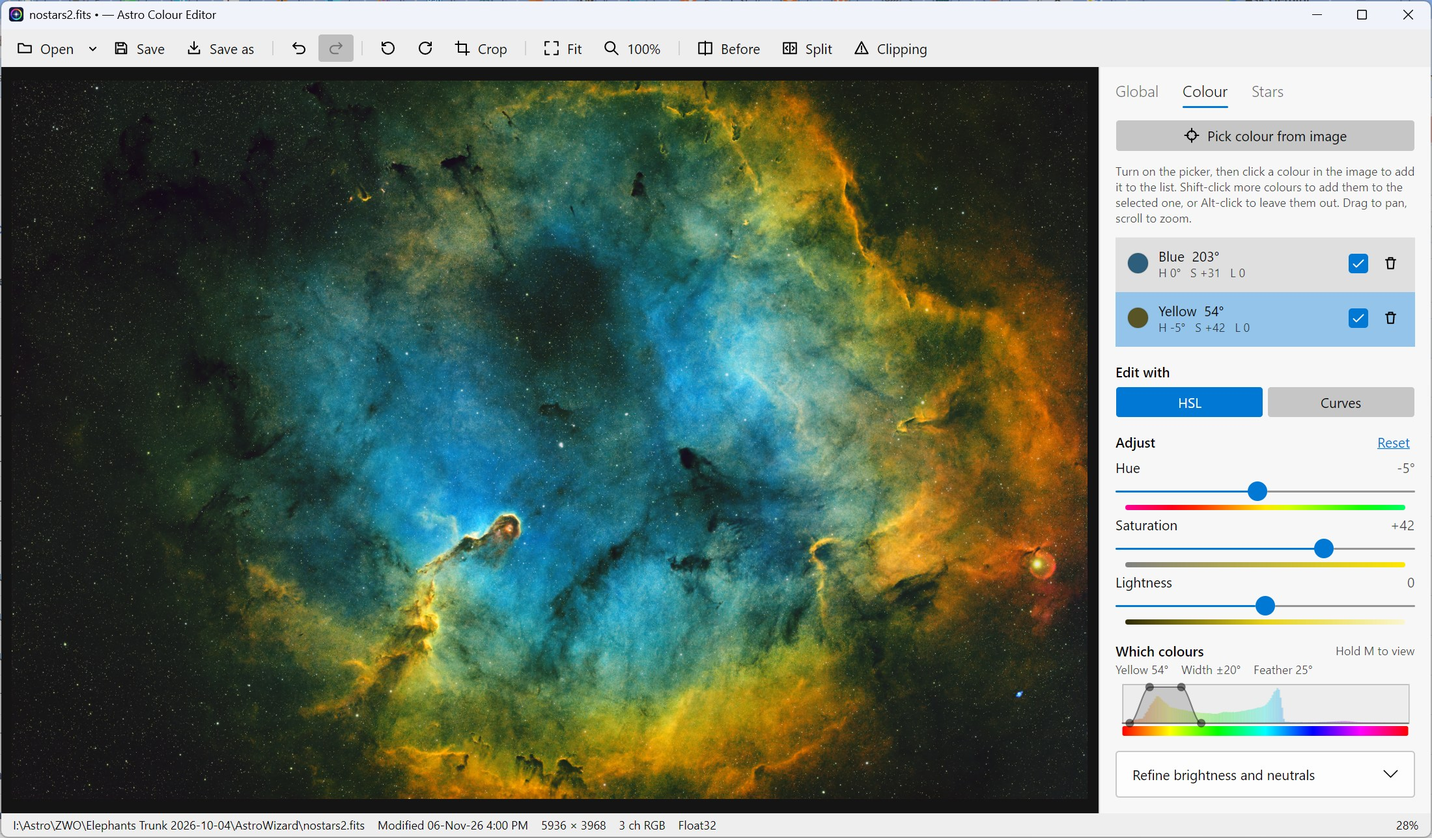
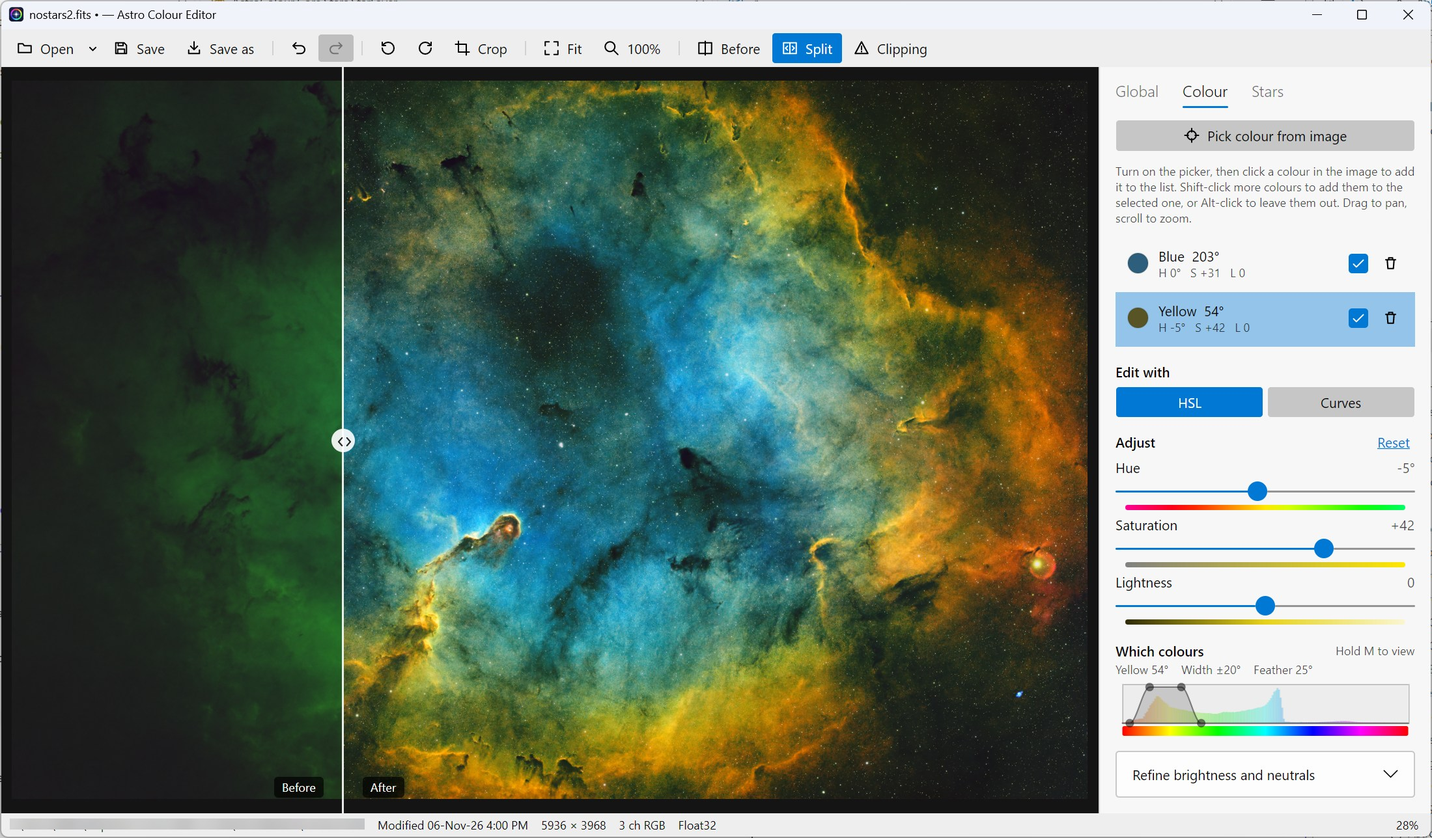
Replace the README screenshot with a split before/after view

diff --git a/README.md b/README.md
@@ -2,7 +2,7 @@
 
 A desktop tool for selective colour editing of `.xisf`, FITS, TIFF and camera raw images. It runs on Windows and macOS (Avalonia UI).
 
-![Astro Colour Editor editing the yellows of an SHO image of the Elephant's Trunk nebula](docs/screenshot.jpg)
+![Astro Colour Editor editing the yellows of an SHO image of the Elephant's Trunk nebula, split before and after](docs/screenshot.jpg)
 
 ## Using it
 
